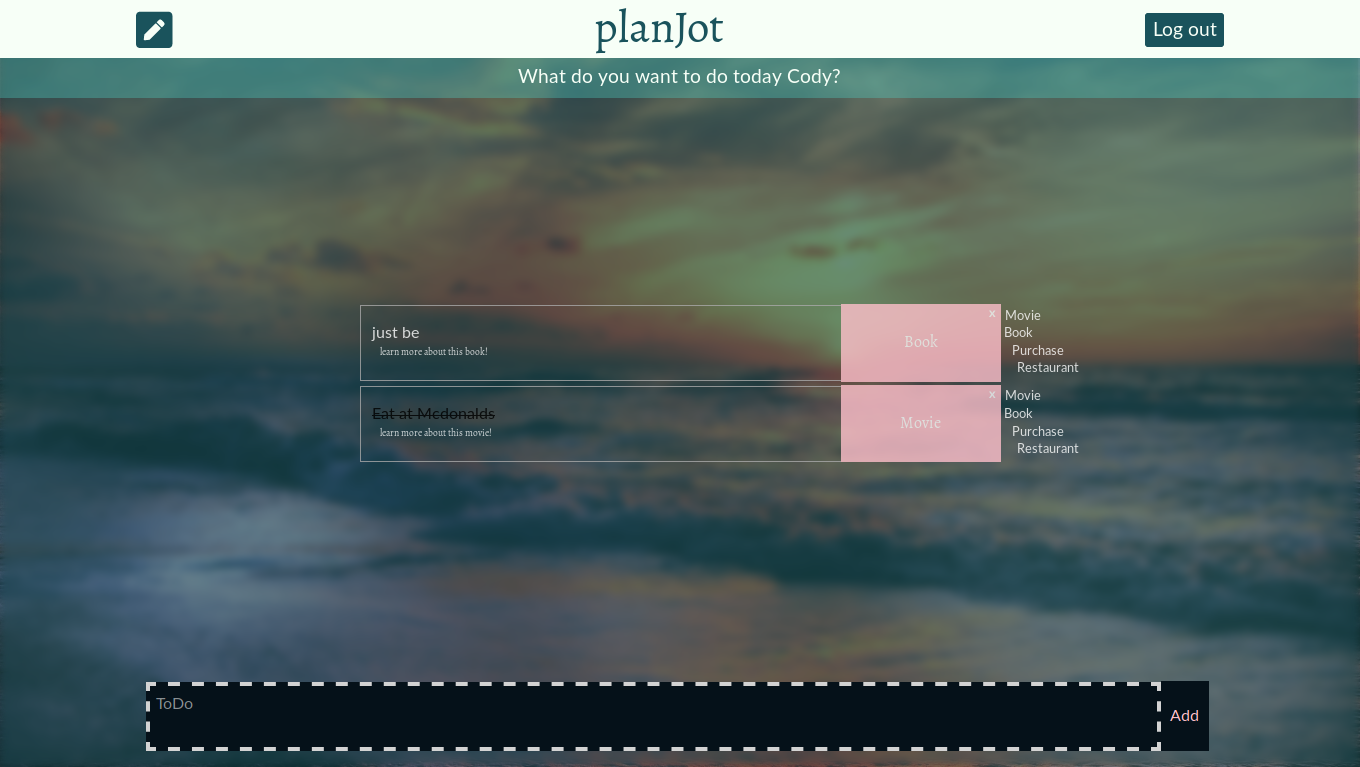
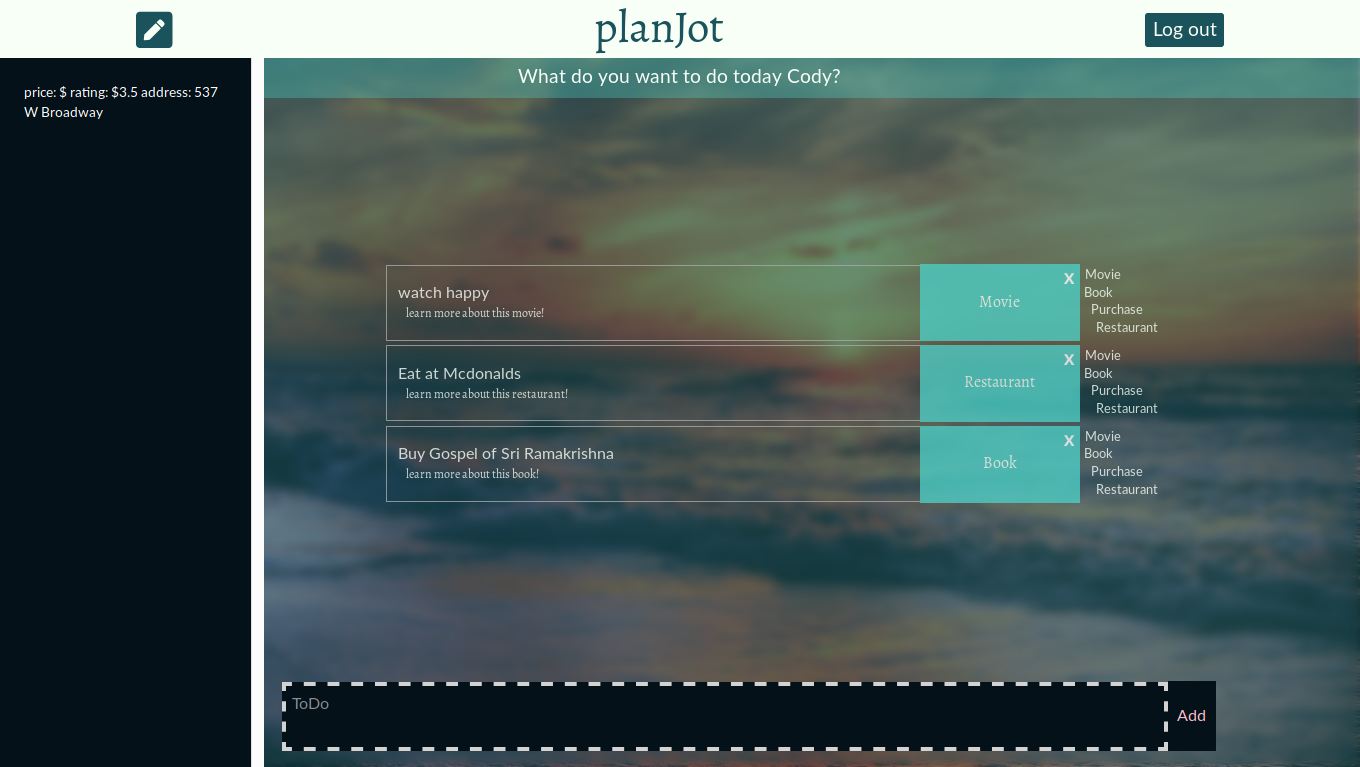
semi-functional UI - API info needs overlay modal, breaks responsive

Changed region(s): [[0.0, 0.06, 0.8956, 1.0], [0.6176, 0.3299, 0.8647, 0.6597], [0.2779, 0.3598, 0.4632, 0.6297]]

diff --git a/public/styles/layout.css b/public/styles/layout.css
@@ -209,6 +209,62 @@ header#landing h2 {
   color: #f7fff7;
 }
 
+.new-todo {
+  margin: 6px;
+  padding: 6px;
+  position: fixed;
+  left: 20%;
+  right: 10%;
+  bottom: 4px;
+  z-index: 9000;
+}
+
+.new-todo-header {
+  border-bottom: 2px black solid;
+  margin-top: 4px;
+}
+
+.textarea-new-todo {
+  width: 95%;
+  padding: 8px;
+  resize: none;
+  overflow: hidden;
+  bottom: 0px;
+  top: 0px;
+  border: dashed 5px lightgrey;
+  background-color: #051119;
+  color: white;
+  font-size: 20px;
+}
+
+textarea:focus, input:focus {
+  outline: none;
+  background-color: #051111;
+  color: white;
+}
+
+.submit-todo {
+  position: absolute;
+  width: 60px;
+  top: 5px;
+  bottom: 10px;
+  font-size: 20px;
+  border: 0px;
+  background-color: #051119;
+  color: pink;
+}
+
+.submit-todo:hover {
+  position: absolute;
+  width: 60px;
+  top: 5px;
+  bottom: 10px;
+  font-size: 20px;
+  border: 0px;
+  background-color: #051119;
+  color: white;
+}
+
 html {
   box-sizing: border-box;
 }
@@ -316,28 +372,34 @@ body .wrapper main {
 .wrapper#logged-in main {
   max-height: initial;
   height: auto;
+  width: 60vmax;
+  margin-left: 7vmax;
 }
 
 /*
  * Additional CSS can be defined below or in other CSS files, as per instructions
  */
+#todo-container {
+  width: 85%;
+}
+
 .todo-box {
   border: 2px solid darkgrey;
   margin: 6px;
   padding: 4px;
   position: relative;
-  color: white;
+  color: #f7fff7;
   opacity: 0.8;
-  width: 800px;
   padding-right: 200px;
   z-index: 0;
   min-height: 95px;
+  width: 100%;
 }
 
 .category {
   position: absolute;
   overflow-wrap: break-word;
-  background-color: pink;
+  background-color: #4ecdc4;
   right: 0px;
   top: 0px;
   bottom: 0px;
@@ -369,10 +431,10 @@ body .wrapper main {
 }
 
 .error {
-  color: pink;
+  color: #f7fff7;
   font-weight: 700;
   position: relative;
-  background-color: #051119;
+  background: rgba(255, 107, 107, 0.5);
   bottom: 15px;
   left: 35px;
   width: 90%;
@@ -391,7 +453,7 @@ body .wrapper main {
 
 .api-info {
   margin-left: 20px;
-  font-size: 12px;
+  font-size: 15px;
   margin-top: -15px;
 }
 
@@ -399,13 +461,21 @@ body .wrapper main {
   position: fixed;
   font-size: 1vw;
   color: white;
-  top: 60px;
+  top: 73px;
+  left: 0px;
   width: 330px;
-  background-color: black;
+  background-color: #051119;
   padding: 30px;
   overflow: scroll;
   height: 100%;
-  z-index: -2;
+  z-index: 50;
+}
+
+.information-about:-webkit-scrollbar {
+  width: 0px;
+  /* remove scrollbar space */
+  background: transparent;
+  /* optional: just make scrollbar invisible */
 }
 
 .movie-toggle {
@@ -469,7 +539,8 @@ body .wrapper main {
   right: 4px;
   top: -2px;
   font-weight: 700;
-  font-size: 15px;
+  font-size: 1.5rem;
+  cursor: pointer;
 }
 
 .hidden {

diff --git a/styles/layout.scss b/styles/layout.scss
@@ -3,6 +3,7 @@
 
 @import "partials/header";
 @import "partials/forms";
+@import "partials/new-todo";
 
 html {
   box-sizing: border-box;
@@ -87,6 +88,8 @@ body {
   main{
     max-height: initial;
     height: auto;
+    width: 60vmax;
+    margin-left: 7vmax;
   }
 }
 
@@ -99,23 +102,27 @@ body {
 //    padding-top: 82px;
 //  }
 
+#todo-container {
+    width: 85%;
+}
+
  .todo-box {
   border: 2px solid darkgrey;
   margin: 6px;
   padding: 4px;
   position: relative;
-  color: white;
+  color: $white;
   opacity: 0.8;
-  width: 800px;
   padding-right: 200px;
   z-index: 0;
   min-height: 95px;
+  width:100%;
  }
 
 .category {
   position: absolute;
   overflow-wrap: break-word;
-  background-color: pink;
+  background-color: $tealB;
   right: 0px;
   top: 0px;
   bottom: 0px;
@@ -146,11 +153,12 @@ body {
   opacity: 1;
  }
 
+
 .error {
-  color: pink;
+  color: $white;
   font-weight: 700;
   position: relative;
-  background-color: #051119;
+  background: rgba($red, .5);
   bottom: 15px;
   left: 35px;
   width: 90%;
@@ -169,7 +177,7 @@ body {
 
 .api-info {
   margin-left: 20px;
-  font-size: 12px;
+  font-size: 15px;
   margin-top: -15px;
 }
 
@@ -177,13 +185,18 @@ body {
   position: fixed;
   font-size: 1vw;
   color: white;
-  top: 60px;
+  top: 73px;
+  left:0px;
   width: 330px;
-  background-color: black;
+  background-color: #051119;
   padding: 30px;
   overflow: scroll;
   height: 100%;
-  z-index: -2;
+  z-index: 50;
+}
+.information-about:-webkit-scrollbar {
+    width: 0px;  /* remove scrollbar space */
+    background: transparent;  /* optional: just make scrollbar invisible */
 }
 
 .movie-toggle {
@@ -241,7 +254,8 @@ color: black;
   right: 4px;
   top:-2px;
   font-weight: 700;
-  font-size: 15px;
+  font-size: 1.5rem;
+  cursor: pointer;
 }
 
 .hidden {

diff --git a/styles/partials/_new-todo.scss b/styles/partials/_new-todo.scss
@@ -1,0 +1,58 @@
+.new-todo {
+  margin: 6px;
+  padding: 6px;
+  position: fixed;
+  left: 20%;
+  right: 10%;
+  bottom: 4px;
+  z-index: 9000;
+ }
+
+ .new-todo-header {
+   border-bottom: 2px black solid;
+   margin-top: 4px;
+ }
+
+ .textarea-new-todo {
+   width: 95%;
+   padding: 8px;
+   resize: none;
+   overflow: hidden;
+   bottom: 0px;
+   top: 0px;
+   border: dashed 5px lightgrey;
+   background-color:#051119;
+   color: white;
+   font-size: 20px;
+ }
+
+textarea:focus, input:focus{
+    outline: none;
+    background-color: #051111;
+    color: white;
+}
+
+ .submit-todo {
+  position: absolute;
+  width: 60px;
+  top: 5px;
+  bottom: 10px;
+  font-size: 20px;
+  border: 0px;
+  background-color: #051119;
+  color: pink;
+ }
+
+ .submit-todo:hover {
+  position: absolute;
+  width: 60px;
+  top: 5px;
+  bottom: 10px;
+  font-size: 20px;
+  border: 0px;
+  background-color: #051119;
+  color: white;
+ }
+
+
+

diff --git a/public/scripts/app.js b/public/scripts/app.js
@@ -101,7 +101,7 @@ $(() => {
   loadTodos();
 
   $( ".toggleButton" ).click(function() {
-    $( ".wrapper" ).slideToggle( 80, function() {
+    $( ".new-todo" ).slideToggle( 80, function() {
       $( ".textarea-new-todo" ).focus();
     });
   });
@@ -142,7 +142,7 @@ $(() => {
     }
   };
 
-  $('.container').on('click', 'article', function() {
+  $('.to-dos').on('click', 'article', function() {
     let category = $(this).attr('category');
     let id = $(this).attr('id');
     apisearch(id, category);

diff --git a/public/styles/new-todo.css b/public/styles/new-todo.css
@@ -2,7 +2,7 @@
   margin: 6px;
   padding: 6px;
   position: fixed;
-  left: 10%;
+  left: 20%;
   right: 10%;
   bottom: 4px;
   z-index: 9000;
